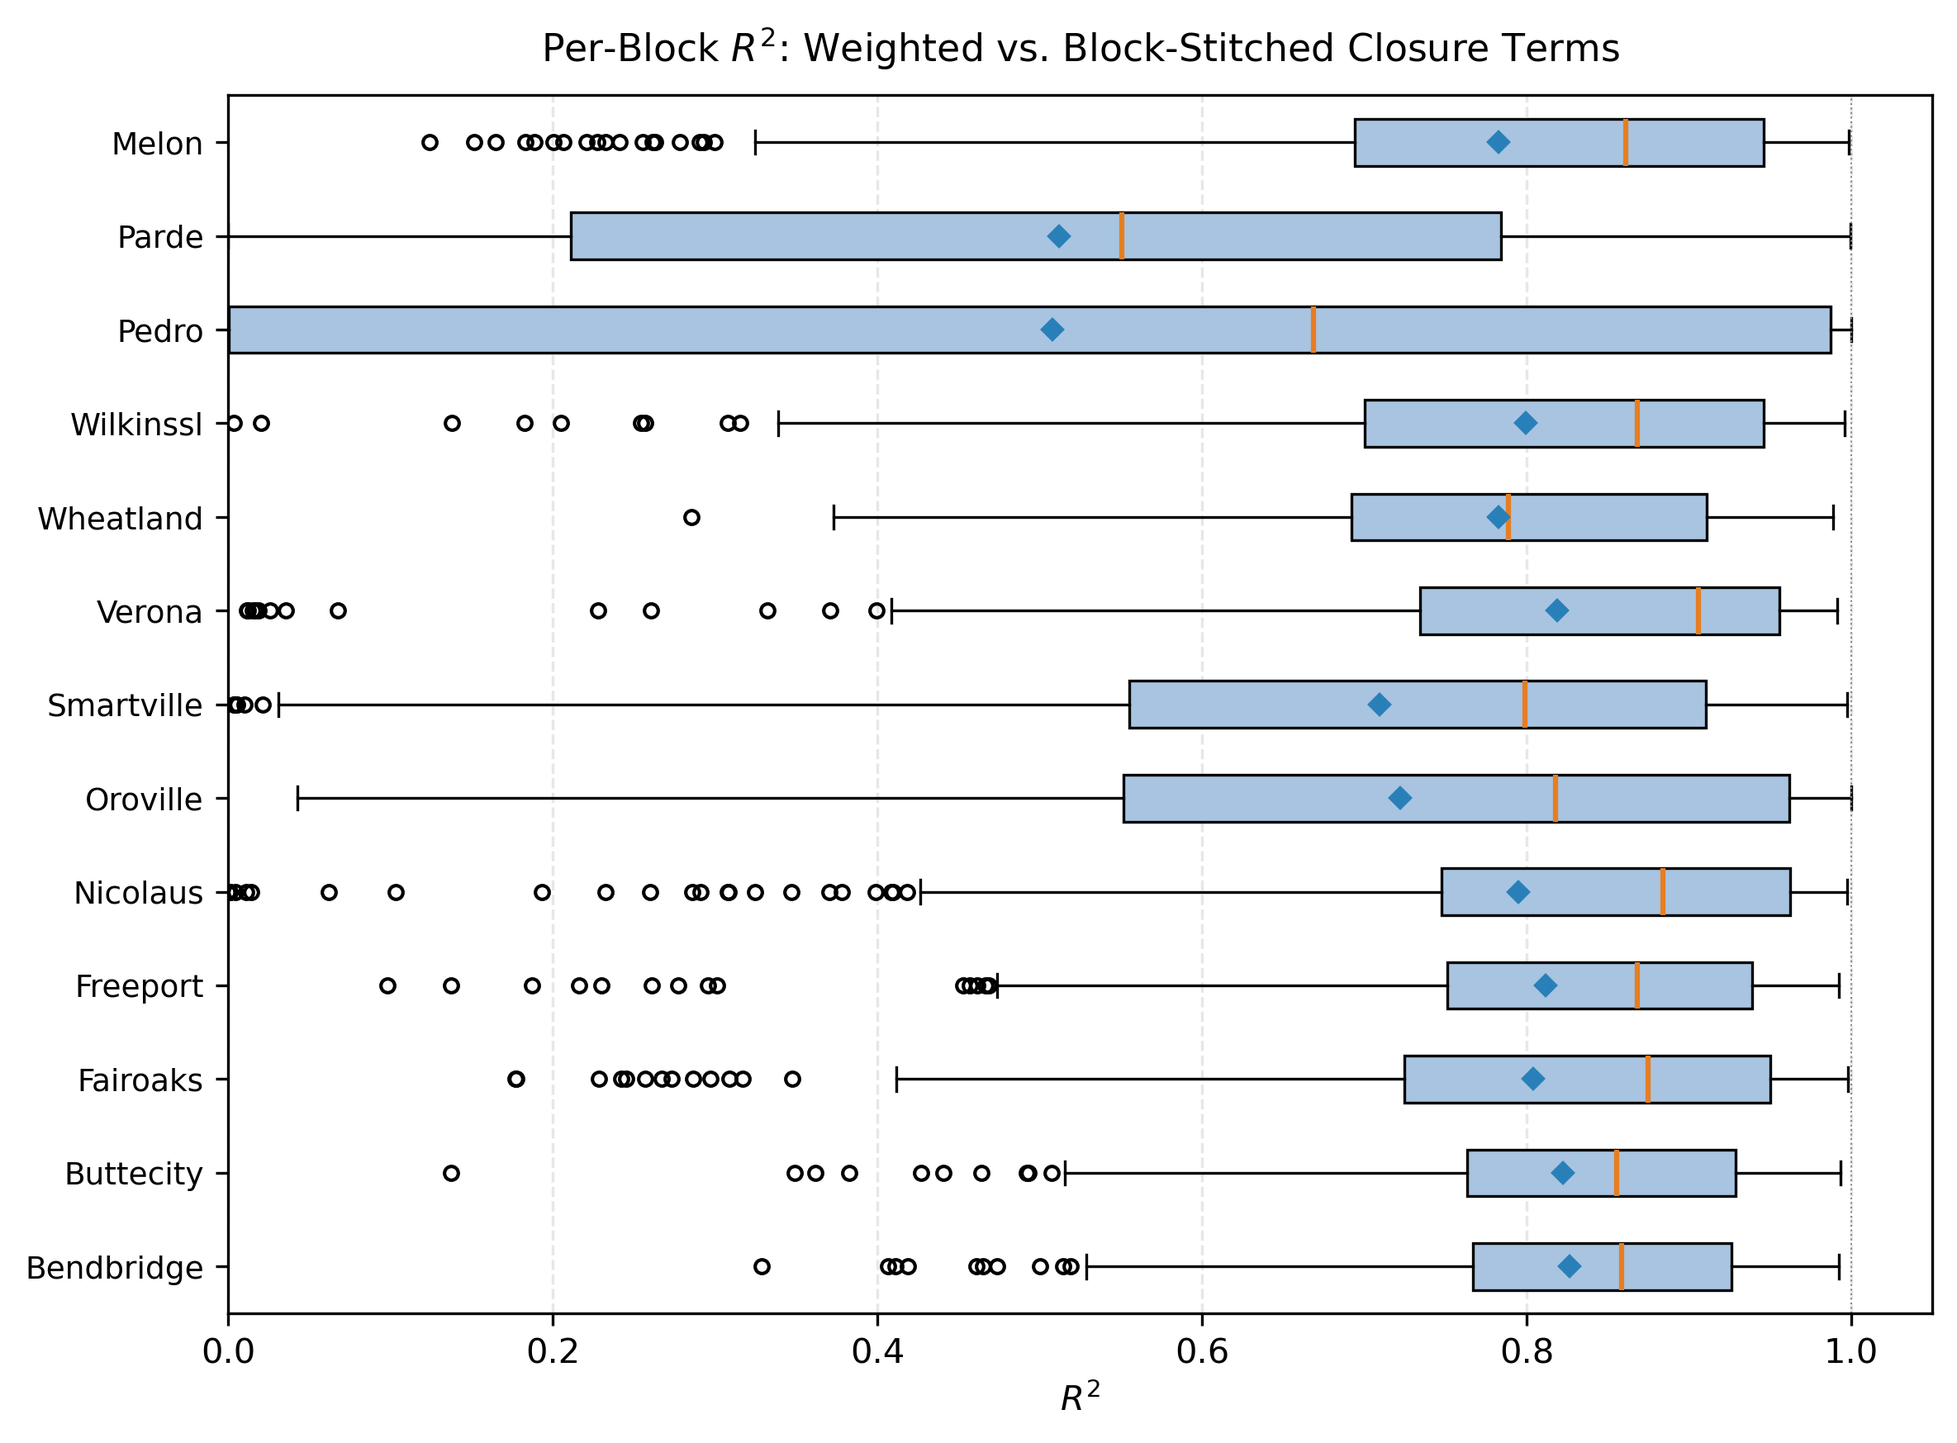
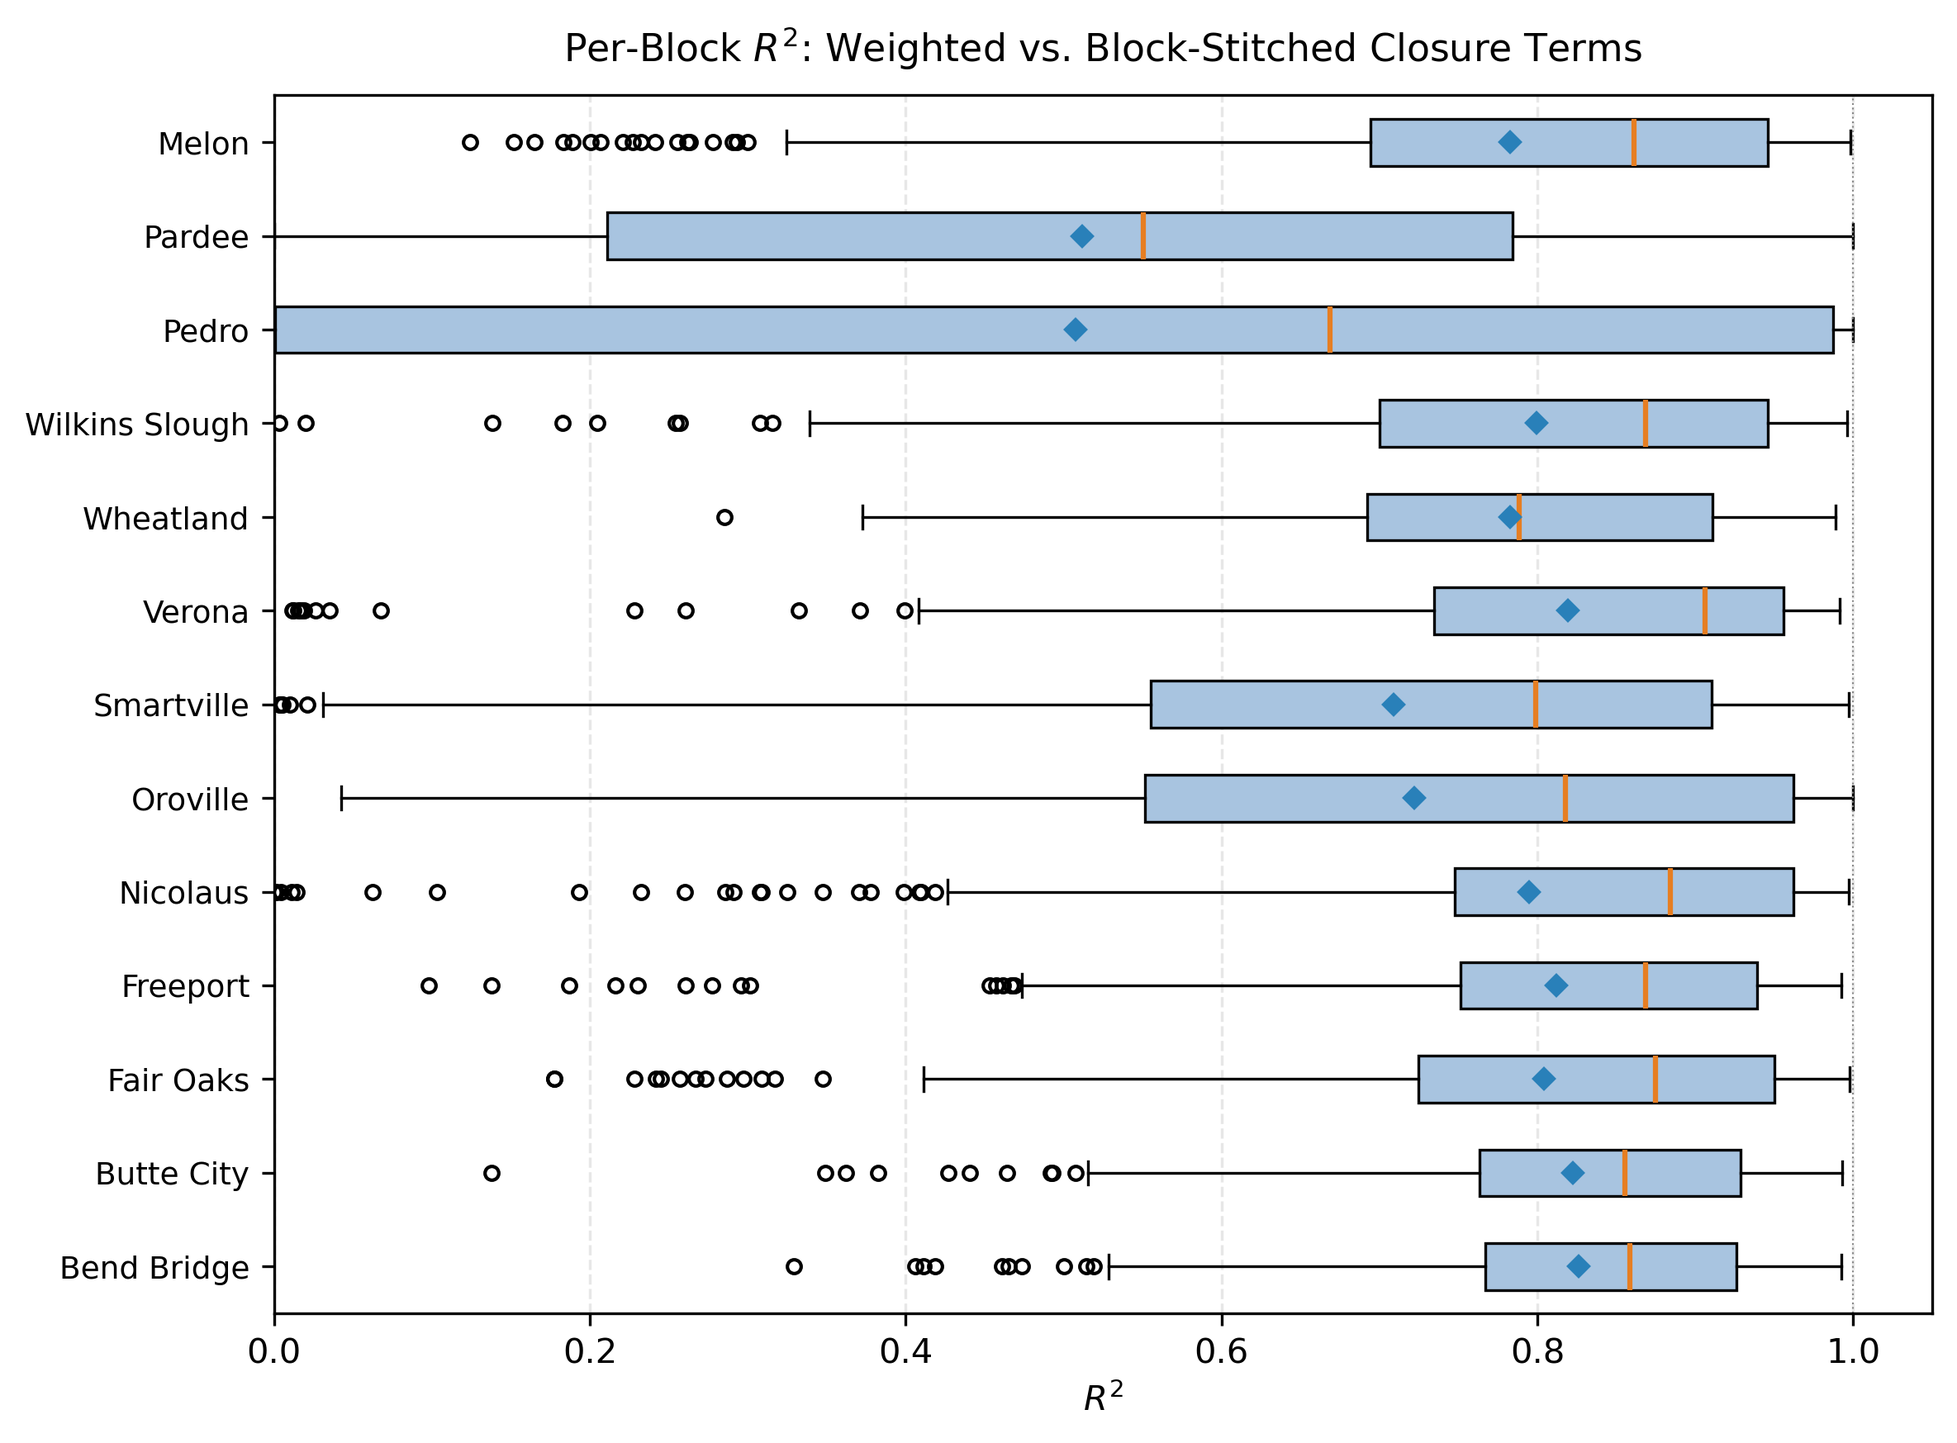
revise closure terms doc and fix figure labels

diff --git a/mod_other/closure_terms/_1_ct_calculation.py b/mod_other/closure_terms/_1_ct_calculation.py
@@ -590,6 +590,17 @@ def build_all_sources_column(counts: pd.DataFrame) -> pd.DataFrame:
 # -----------------------------
 # box plots of per-block R-squared (one box per closure term)
 # -----------------------------
+# Proper display names where the CalSim variable name is truncated or has no
+# word boundaries (e.g. CT_PARDE_SV is Pardee Reservoir).
+_DISPLAY_NAMES = {
+    "BENDBRIDGE": "Bend Bridge",
+    "BUTTECITY": "Butte City",
+    "FAIROAKS": "Fair Oaks",
+    "PARDE": "Pardee",
+    "WILKINSSL": "Wilkins Slough",
+}
+
+
 def _short_label(term: str) -> str:
     """CT_BENDBRIDGE_SV -> Bend Bridge, CT_FAIROAKS_SV -> Fair Oaks, etc."""
     name = term
@@ -597,7 +608,8 @@ def _short_label(term: str) -> str:
         name = name[3:]
     if name.endswith("_SV"):
         name = name[:-3]
-    # Insert space before each uppercase letter that follows a lowercase letter
+    if name in _DISPLAY_NAMES:
+        return _DISPLAY_NAMES[name]
     cleaned = name.replace("_", " ").title()
     return cleaned
 

diff --git a/docs/source/input-generation/mod-other-closure-terms.md b/docs/source/input-generation/mod-other-closure-terms.md
@@ -14,10 +14,10 @@ For the DCR 2023-based inventory screened for this project, 26 closure-term inpu
 
 ## Methodology
 
-Initial investigation attempted to correlate closure terms with nearest upstream unimpaired flow predictors and water year type (WYT) indices. Monthly Pearson correlations were generally weak, with Bend Bridge showing the strongest relationship at approximately r=0.50. These relationships were not considered sufficient to support quantile mapping or index-based monthly generation. Annual sum correlation was higher, but the annual signal is too coarse to use directly because of strong month to month variation, for example, January can be highly positive while February may be negative, and the annual signal cannot capture these monthly fluctuations.
+Initial investigation attempted to correlate closure terms with nearest upstream unimpaired flow predictors and water year type (WYT) indices. Monthly Pearson correlations were generally weak, with Bend Bridge showing the strongest relationship at approximately r=0.50. These relationships were not considered sufficient to support quantile mapping. Annual sum correlation was higher, but the annual signal is too coarse to use directly because of strong month to month variation, for example, January can be highly positive while February may be negative, and the annual signal cannot capture these monthly fluctuations.
 
 ::::{tab-set}
-:::{tab-item} Location Map
+:::{tab-item} Sacramento Valley Map
 `````{grid} 3
 :gutter: 2
 :margin: 0
@@ -25,7 +25,7 @@ Initial investigation attempted to correlate closure terms with nearest upstream
 ````{grid-item}
 :columns: 8
 
-![Closure Term Location Map](figures/s3-inputs_closure-terms-location-map.png)
+![Sacramento Valley Closure Term Location Map](figures/s3-inputs_closure-terms-location-map.png)
 ````
 ````{grid-item}
 :columns: 4
@@ -38,7 +38,27 @@ Initial investigation attempted to correlate closure terms with nearest upstream
 - **Nicolaus, Verona**: Oroville + Yuba
 ````
 `````
-*Sacramento Valley closure term drainage areas and their control gauges, from CalSim 3 Hydrology Report (DCR 2023); the San Joaquin closure terms (Pedro, Pardee, Melon) are not shown here.*
+*Sacramento Valley closure term drainage areas and their control gauges, from CalSim 3 Hydrology Report (DCR 2023). The list gives the candidate upstream unimpaired flows evaluated for each term in the correlation analysis.*
+:::
+:::{tab-item} San Joaquin Valley Map
+`````{grid} 3
+:gutter: 2
+:margin: 0
+
+````{grid-item}
+:columns: 8
+
+![San Joaquin Valley Closure Term Location Map](figures/s3-inputs_closure-terms-sj-location-map.png)
+````
+````{grid-item}
+:columns: 4
+
+- **Pedro**: Tuolumne
+- **Pardee**: Pardee inflow
+- **Melon**: Stanislaus
+````
+`````
+*San Joaquin Valley closure term drainage areas and their control gauges, from CalSim 3 Hydrology Report (DCR 2023). The list gives the candidate upstream flows evaluated for each generated term in the correlation analysis.*
 :::
 :::{tab-item} Correlation Analysis
 ![Closure Term Correlation Analysis](figures/s3-inputs_closure-terms-correlation-meeting2.png)
@@ -46,26 +66,22 @@ Initial investigation attempted to correlate closure terms with nearest upstream
 :::
 ::::
 
-Given the limitations of correlation-based approaches, the team developed a novel weighted-average methodology using WGEN sampling dates. The approach extracts WGEN sampled dates for each synthetic month, calculates the percentage of days sampled from each historical month/year combination, extracts closure term values for each contributing historical period, and weights closure term values by sampling percentage to create the weighted average for each WGEN month.
+Given these limitations, a weighted average methodology based on WGEN sampling dates was adopted to generate the 13 nonrepeating closure terms. For each synthetic month, the method extracts the WGEN sampled dates, calculates the percentage of days drawn from each historical month and year combination, retrieves the historical closure term values for those contributing periods, and combines them into a weighted average using the sampling percentages as weights.
 
-The methodology leverages a key insight: since WGEN constructs each synthetic month by sampling from historical days, and those sampling dates are recorded, the closure terms can be reconstructed by applying the same temporal mixing. For example, WGEN's synthetic May of simulation year 2036 draws 21 of its 31 days from historical May 1972, 6 days from historical May 1957, and the remaining 4 days from historical June 1952, a donor period can come from a different calendar month entirely, not just a different year. Weighting Bend Bridge's historical closure term by these day counts (5.44, -2.57, and 18.55 TAF for May 1972, May 1957, and June 1952) gives (21/31)(5.44) + (6/31)(-2.57) + (4/31)(18.55) = 5.58 TAF for the synthetic month. This approach preserves the temporal association between WGEN donor dates and historical closure-term values; it does not explicitly identify or simulate the physical, operational, or data-related causes of the residuals.
+WGEN constructs each synthetic month by sampling historical days, and those sampling dates are recorded, the closure terms can be reconstructed by applying the same temporal mixing. For example, synthetic May of simulation year 2036 draws 21 of its 31 days from historical May 1972, 6 days from May 1957, and the remaining 4 days from June 1952. As this example shows, donor periods can sometimes differ from the synthetic month in calendar month. The figure below illustrates the resulting weighted average using the Bend Bridge closure term values for these donor periods. This reconstruction preserves the temporal association between WGEN donor dates and historical closure term values; it does not identify or simulate the physical, operational, or data related causes of the residuals.
 
 ```{mermaid}
-flowchart TD
+flowchart LR
     WGEN_MONTH["Synthetic WGEN Month<br/>(May, Year 2036)"] --> DATES["Extract Sampled<br/>Historical Dates"]
-    DATES --> PCT["Calculate % of Days<br/>from Each Historical Month/Year"]
+    DATES --> PCT["Calculate % of Days per<br/>Historical Month/Year"]
 
-    PCT --> H1["Historical May 1972<br/>(21 of 31 days, 68%)"]
-    PCT --> H2["Historical May 1957<br/>(6 of 31 days, 19%)"]
-    PCT --> H3["Historical June 1952<br/>(4 of 31 days, 13%)"]
+    PCT --> H1["May 1972<br/>21 of 31 days (68%)<br/>CT: 5.44 TAF"]
+    PCT --> H2["May 1957<br/>6 of 31 days (19%)<br/>CT: -2.57 TAF"]
+    PCT --> H3["June 1952<br/>4 of 31 days (13%)<br/>CT: 18.55 TAF"]
 
-    H1 --> CT1["Closure Term Value<br/>May 1972: 5.44 TAF"]
-    H2 --> CT2["Closure Term Value<br/>May 1957: -2.57 TAF"]
-    H3 --> CT3["Closure Term Value<br/>June 1952: 18.55 TAF"]
-
-    CT1 --> WAVG["Weighted Average<br/>0.68(5.44)<br/>+ 0.19(-2.57)<br/>+ 0.13(18.55)<br/>= 5.58 TAF"]
-    CT2 --> WAVG
-    CT3 --> WAVG
+    H1 --> WAVG["Weighted Average<br/>0.68(5.44)<br/>+ 0.19(-2.57)<br/>+ 0.13(18.55)<br/>= 5.58 TAF"]
+    H2 --> WAVG
+    H3 --> WAVG
 
     WAVG --> OUTPUT["Synthetic Closure Term<br/>for May, Year 2036"]
 
@@ -73,41 +89,45 @@ flowchart TD
     style OUTPUT fill:#2d6a4f,color:#fff
 ```
 
-_WGEN date-weighted closure term reconstruction, using an actual WGEN month. Each synthetic month's closure term is a weighted average of historical values, with weights determined by the fraction of days sampled from each historical period._
+_WGEN date-weighted closure term reconstruction, illustrated with an example month from the WGEN output and historical closure term values for Bend Bridge. Each synthetic month's closure term is a weighted average of historical values, with weights determined by the fraction of days sampled from each historical period._
 
-Closure term retirement has precedent: DCR 2023 reports that since the previous CalSim 3 documentation, four closure terms were removed and two were combined, following model improvements that reduced the need for these empirical corrections (DCR 2023 CalSim 3 Hydrology Report, p. 16-37). We expect a similar improvement in future CalSim versions, potentially including the current DCR 2025 draft, which would ease both the CalSim model and this stochastic generation framework.
+Since the previous CalSim 3 documentation, four closure terms have been removed and two combined, following model improvements that reduced the need for these empirical corrections (DCR 2023 CalSim 3 Hydrology Report, p. 16-37). Further retirements are expected in future CalSim versions.
 
 ## Results
 
 Across the 1,000-year simulation, most synthetic WGEN months draw from a single dominant historical source rather than blending several periods together:
 
-- 46.5% come entirely from one historical month/year--a perfect match, where the weighted average equals the actual historical value.
+- 46.5% come entirely from one historical month/year.
 - 18.6% draw 80-99.9% of their days from the dominant month.
 - 16.6% draw 60-79.9%.
+- 12.5% draw 40-59.9%.
 - Only 5.7% draw less than 40%, making them true blends of multiple historical periods.
 
 ::::{tab-set}
 :::{tab-item} WGEN Sampling Distribution
 ![WGEN Sampling Distribution](figures/s3-inputs_closure-terms-wgen-sampling.png)
-*Distribution of dominant-month contribution to each WGEN month. Fully 46.5% of WGEN months are sampled entirely from a single historical month/year (perfect mapping), while only 5.7% have less than 40% from the dominant month.*
+
+*Distribution of dominant-month contribution to each WGEN month. 46.5% of WGEN months are sampled entirely from a single historical month/year, while only 5.7% have less than 40% from the dominant month.*
 :::
 :::{tab-item} WGEN Source Analysis
 ![WGEN Source Analysis](figures/s3-inputs_closure-terms-wgen-source-analysis.png)
+
 *Distribution of distinct historical (month, year) pairs contributing to each WGEN month. About 46.5% come from a single pair, another 45% from 2--4 pairs, and about 8% involve 5 or more distinct source periods.*
 :::
 ::::
 
-Since there are no reference series against which the stochastic closure terms can be validated, the analysis instead compares how well the date-weighted closure terms follow the dominant 4-year historical sequence embedded in WGEN sampling. WGEN itself resamples historical weather regimes in 4-year segments to preserve realistic multi-year drought and pluvial persistence (WGEN California Final Report, Najibi et al., 2023); therefore, for each 4-year WGEN block, the dominant historical 4-year window is identified, and CalSim 3's closure terms for those years are stitched together into a continuous sequence. It is worth mentioning that the WGEN sequence doesn't always come entirely from that same 4-year block, but these four years remain the dominant source. We define coverage as the percentage of a block's days that actually come from that same dominant 4-year period; most blocks show a coverage ratio between 70-85%.
+Since there are no reference series against which the stochastic closure terms can be validated, the analysis instead compares how well the date-weighted closure terms follow the dominant 4-year historical sequence embedded in WGEN sampling. WGEN itself resamples historical weather regimes in 4-year segments to preserve realistic multi-year drought and pluvial persistence (WGEN California Final Report, Najibi et al., 2023); therefore, for each 4-year WGEN block, the dominant historical 4-year window is identified, and CalSim 3's closure terms for those years are stitched together into a continuous sequence. The WGEN sequence does not always come entirely from that 4-year block, but those four years remain the dominant source. Coverage is defined as the percentage of a block's days drawn from its dominant 4-year period; as shown in the figure below, most blocks have coverage between 70% and 85%.
 
 ![Coverage Ratio in 4-Year Blocks](figures/s3-inputs_closure-terms-4yr-coverage.png)
-*Coverage ratio distribution for dominant 4-year blocks. Most blocks show 70-85% coverage from the same historical 4-year period, reflecting substantial temporal coherence in WGEN sampling.*
+*Coverage ratio distribution for dominant 4-year blocks. The concentration between 70% and 85% reflects that WGEN largely samples contiguous stretches of the historical record.*
 
-Overall, the weighted series follows the block-stitched patterns reasonably well. Across the full record, the average R² for the 13 generated closure terms is 0.80. For individual four-year blocks, the mean R² is 0.75 and the median is 0.85, although performance varies among terms from a median of 0.55 for Pardee to 0.91 for Verona. These results show that the weighted method generally transfers the temporal structure of historical closure terms into the WGEN sequence, while recognizing that this comparison evaluates consistency between two constructed series rather than real-world predictive accuracy.
+Overall, the weighted series follows the block-stitched patterns reasonably well. Across the full record, the average R² for the 13 generated closure terms is 0.80. For individual four-year blocks, the mean R² is 0.75 and the median is 0.85, although performance varies among terms from a median of 0.55 for Pardee to 0.91 for Verona, as shown in the box plots below. These results show that the weighted method generally transfers the temporal structure of historical closure terms into the WGEN sequence, while recognizing that this comparison evaluates consistency between two constructed series rather than real-world predictive accuracy.
 
 ![Closure Term R² Box Plots](figures/s3-inputs_closure-terms-correlation-boxplots.png)
-*Per-block R² between WGEN-weighted and block-stitched closure terms across all 4-year blocks. Term-level medians range from 0.55 (Pardee) to 0.91 (Verona); most terms cluster from 0.85-0.91, while Pardee, Pedro, Wheatland, Smartville, and Oroville show lower medians and wider spread, reflecting weaker or more random signal patterns at those locations.*
+*Per-block R² between WGEN-weighted and block-stitched closure terms across all 4-year blocks. Medians range from 0.55 (Pardee) to 0.91 (Verona); most terms cluster from 0.85-0.91, while Pardee, Pedro, Wheatland, Smartville, and Oroville show lower medians, with especially wide spread for Pardee and Pedro. These lower correlations are largely because of the very small magnitudes of the closure terms at those locations, most of which are zero in the majority of months, making the per-block R² sensitive to a few nonzero values.*
 
 ## References
 
-- Najibi, N., and S. Steinschneider (2023). [*A Process-Based Approach to Bottom-Up Climate Risk Assessments: Developing a Statewide, Weather-Regime Based Stochastic Weather Generator for California.*](https://water.ca.gov/-/media/DWR-Website/Web-Pages/Programs/All-Programs/Climate-Change-Program/Resources-for-Water-Managers/Files/WGENCalifornia_Final_Report_final_20230808.pdf) Final Report, Cornell University, prepared for the California Department of Water Resources.
-- California Department of Water Resources (2024). [*CalSim 3 Hydrology Report*](https://data.cnra.ca.gov/dataset/finaldcr2023/resource/6ba59600-d562-44da-a267-a6a50dff3f0d), Final State Water Project Delivery Capability Report 2023 (DCR 2023).
+California Department of Water Resources (DWR). 2023. *Final CalSim 3 Hydrology Report*. Companion technical document to the *Final State Water Project Delivery Capability Report 2023* (DCR 2023). <https://data.cnra.ca.gov/dataset/a3bb1ddd-624b-4c3d-95e7-2aa6b3bf2b5b/resource/6ba59600-d562-44da-a267-a6a50dff3f0d/download/final_cs3_hydrologyreport_v2.pdf>
+
+Najibi, N., and S. Steinschneider. 2023. *A Process-Based Approach to Bottom-Up Climate Risk Assessments: Developing a Statewide, Weather-Regime Based Stochastic Weather Generator for California*. Final Report, Cornell University, prepared for the California Department of Water Resources. <https://water.ca.gov/-/media/DWR-Website/Web-Pages/Programs/All-Programs/Climate-Change-Program/Resources-for-Water-Managers/Files/WGENCalifornia_Final_Report_final_20230808.pdf>
